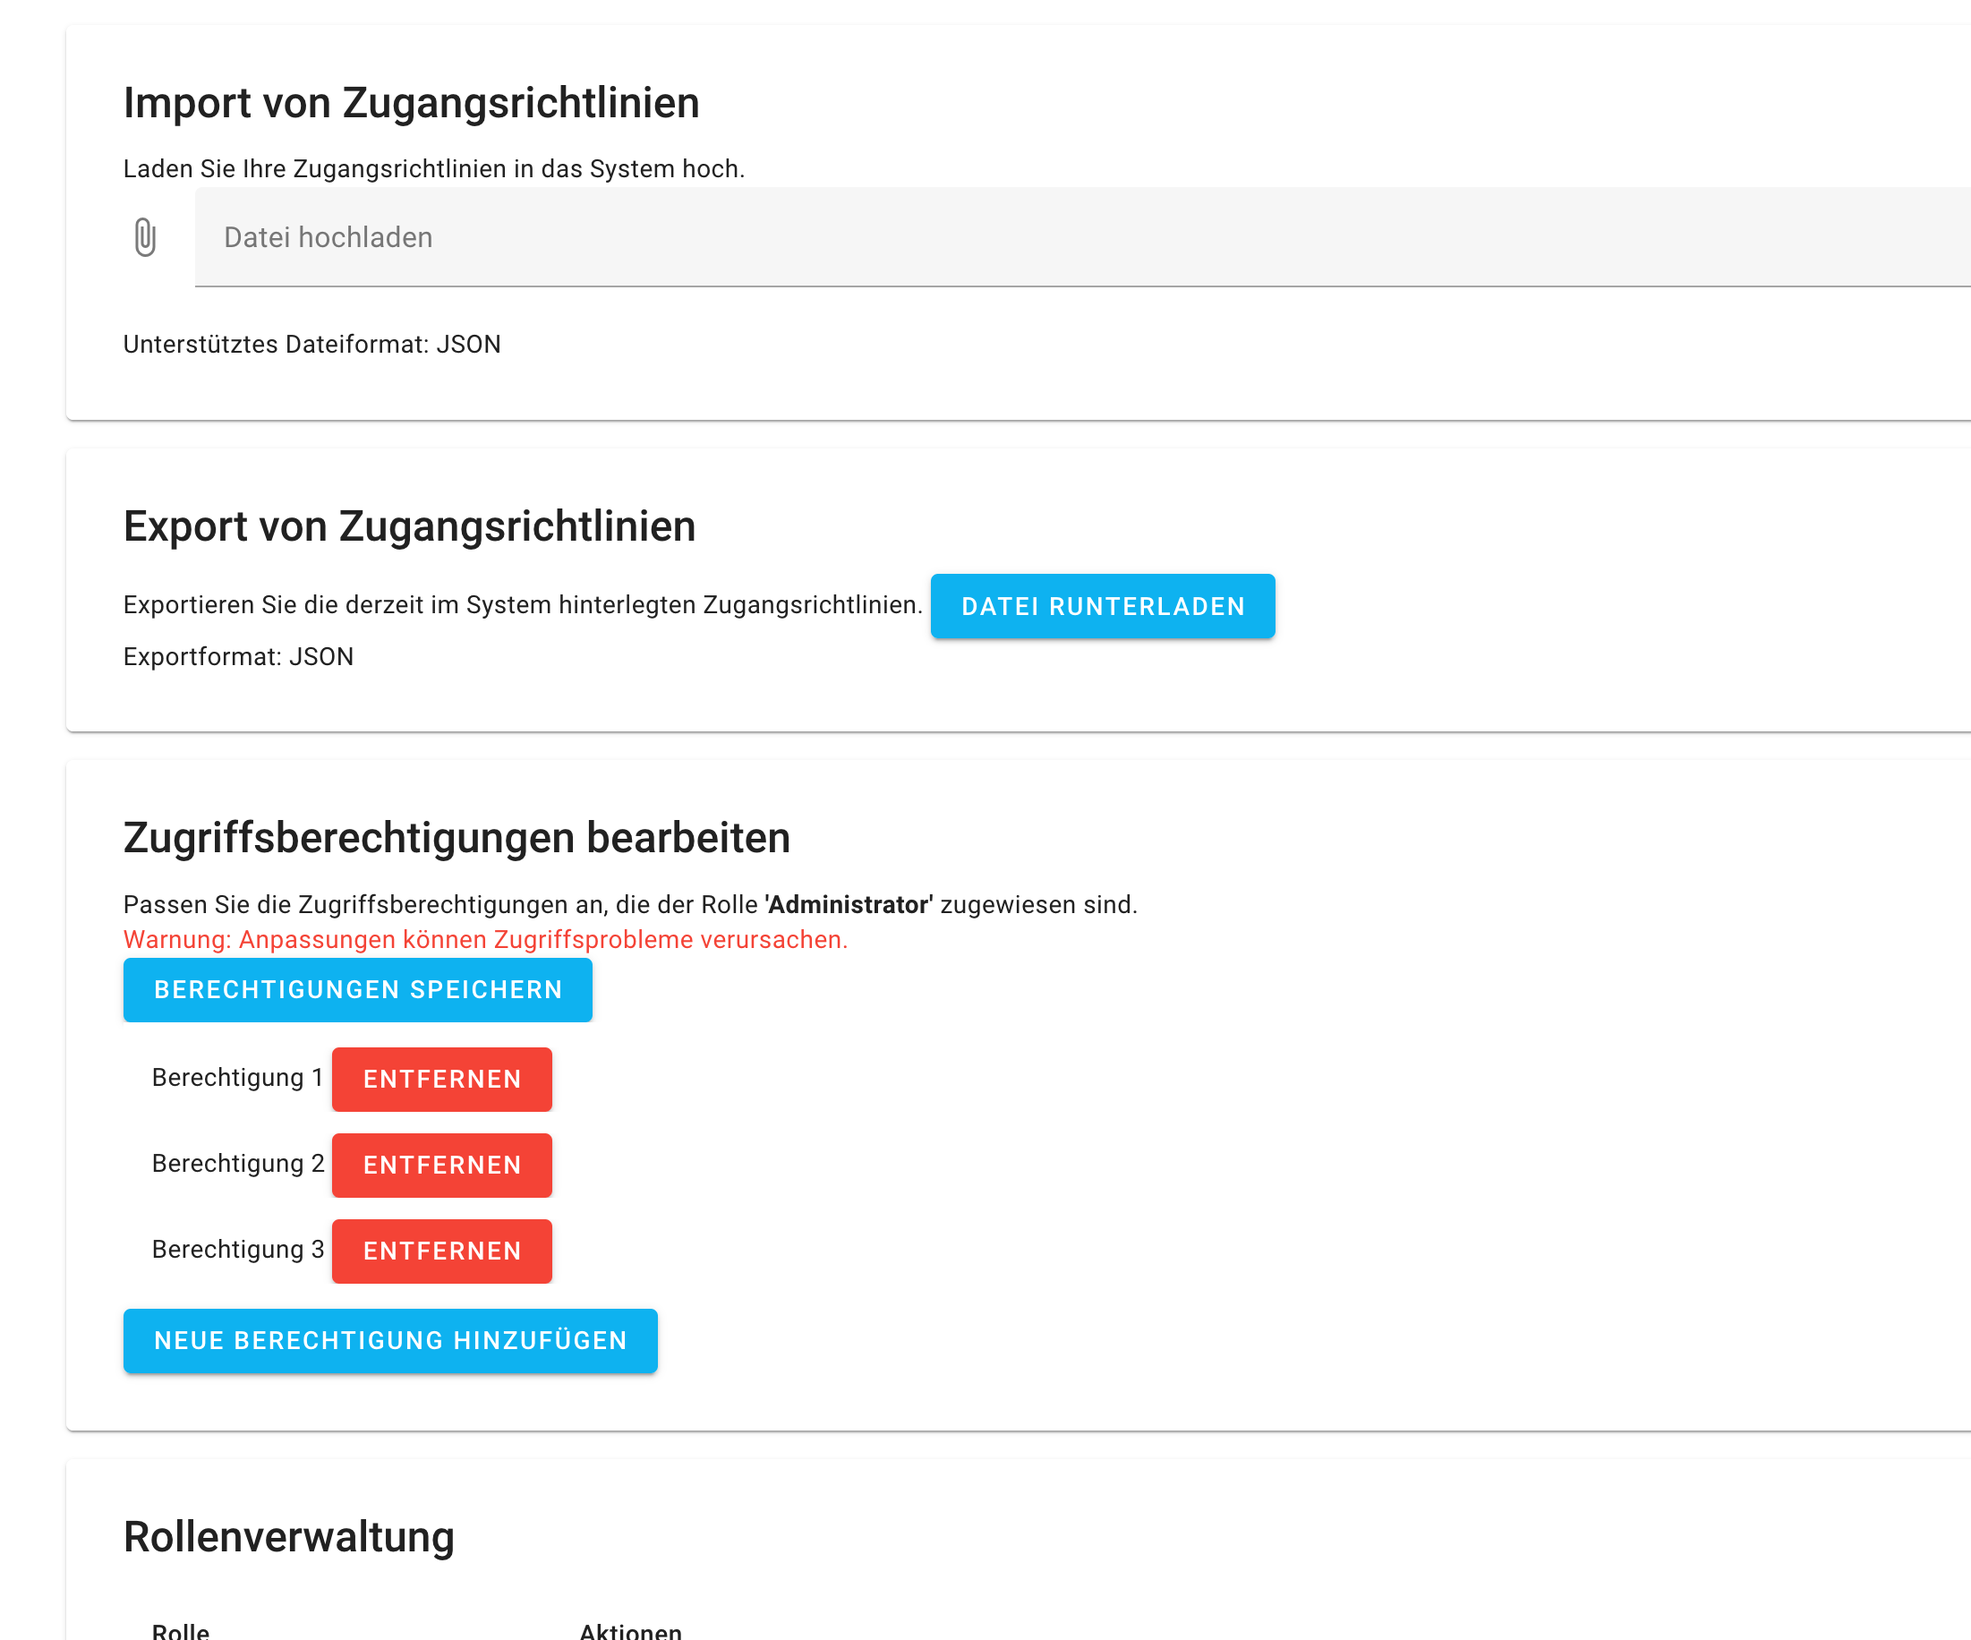
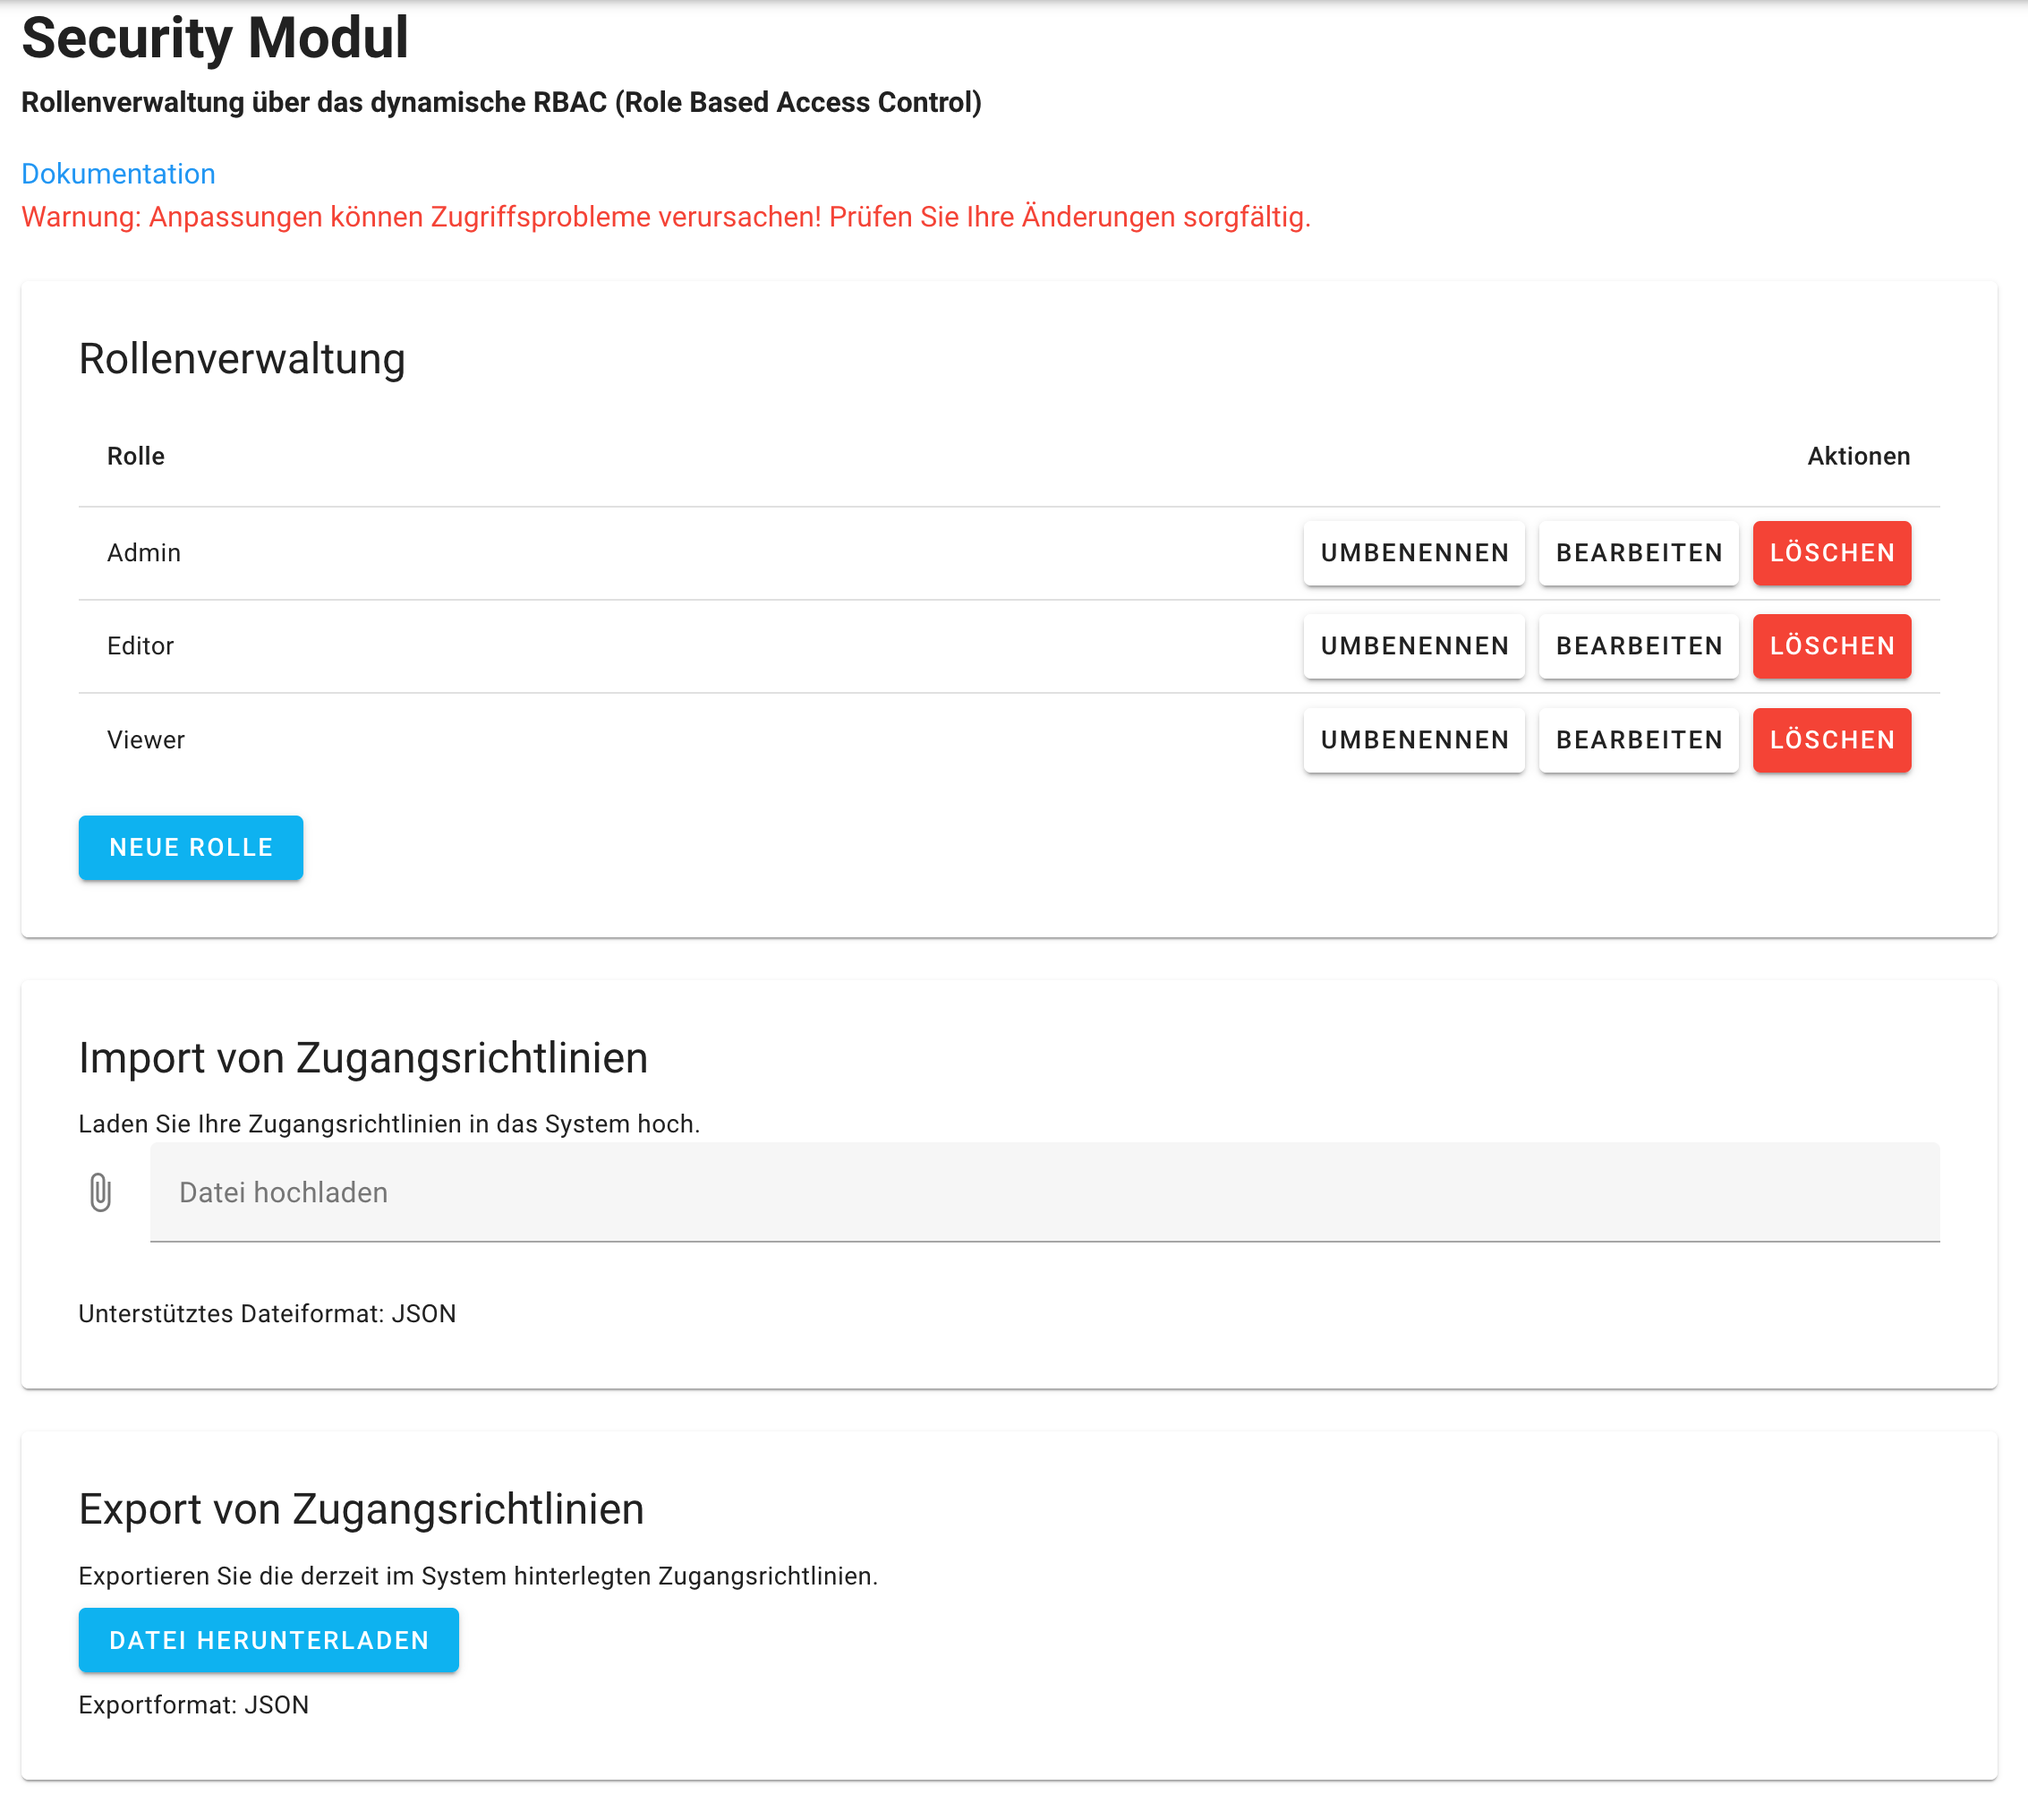
GITBOOK-57: No subject

diff --git a/technisches/sicherheitsmodul-security.vue.md b/technisches/sicherheitsmodul-security.vue.md
@@ -1,0 +1,38 @@
+---
+description: Dokumentation über das BaSyx-Modul 'Security'
+icon: lock-keyhole
+---
+
+# Sicherheitsmodul (Security.vue)
+
+Das Sicherheitsmodul dient zur Verwaltung von Rollen und Zugangsrichtlinien mithilfe von **Role-Based Access Control (RBAC)**. Es unterstützt die Erstellung, Bearbeitung und Löschung von Rollen sowie den Import und Export von Richtlinien und dokumentiert ausgeführte Aktionen.
+
+***
+
+### **Funktionen**
+
+#### **1. Rollenverwaltung**
+
+* **Rollen anzeigen**: Eine Tabelle listet bestehende Rollen übersichtlich auf
+* **Aktionen für Rollen**:
+  * **Neue Rolle erstellen**: Mit einem Klick wird eine Eingabeaufforderung geöffnet, in der der Name der neuen Rolle eingegeben wird
+  * **Rolle umbenennen**: Der Name einer bestehenden Rolle kann geändert werden
+  * **Rolle bearbeiten**: Bearbeitung vorhandener Rolleneinstellungen
+  * **Rolle löschen**: Entfernt die Rolle nach Bestätigung
+
+#### **2. Import von Zugangsrichtlinien**
+
+* Über eine **Datei-Upload**-Funktion können **JSON-Dateien** hochgeladen werden, die neue Zugangsrichtlinien enthalten
+
+#### **3. Export von Zugangsrichtlinien**
+
+* Exportieren der vorhandenen Richtlinien als **JSON-Datei** für Sicherungs- oder Analysezwecke
+
+### **Hinweise zur Nutzung**
+
+* **Rollenanpassungen**: Änderungen an Rollen können Zugriffsprobleme verursachen – bitte sorgfältig prüfen
+
+### Screenshot
+
+<figure><img src="../.gitbook/assets/image.png" alt=""><figcaption><p>Die UI des Security-Moduls</p></figcaption></figure>
+

diff --git a/organisation.md b/organisation.md
@@ -1,6 +1,6 @@
 ---
-icon: sitemap
 description: Dieses Kapitel befasst sich mit der Organisation und den benutzen Hilfsmittel.
+icon: sitemap
 ---
 
 # Organisation
@@ -9,7 +9,7 @@ description: Dieses Kapitel befasst sich mit der Organisation und den benutzen H
 
 Es wird ein Kanban-Board auf GitHub erstellt. Hierbei werden die Spalten "Todo", "In Progress" und "Done" benutzt. Auf diesem kann mit Hilfe von GitHub-Issues Aufgaben erstellen. Diese können Personen zugewiesen werden und es können nähere Details als Kommentar folgen. Des Weiteren kann eine Deadline hinzugefügt und es können Aufgaben auch dem gesamten Team zugewiesen werden.
 
-<figure><img src=".gitbook/assets/image (1).png" alt=""><figcaption><p>Das Kanban-Board bei Beginn des Projekts</p></figcaption></figure>
+<figure><img src=".gitbook/assets/image (1) (1).png" alt=""><figcaption><p>Das Kanban-Board bei Beginn des Projekts</p></figcaption></figure>
 
 <figure><img src=".gitbook/assets/Screenshot 2024-11-13 at 22-49-55 View 1 · ToDo Team 1.png" alt=""><figcaption><p>Kanban-Board gegen Ende des dritten Semesters</p></figcaption></figure>
 

diff --git a/home/informationen-zur-umsetzung.md b/home/informationen-zur-umsetzung.md
@@ -1,9 +1,9 @@
 ---
-icon: info
 description: >-
   Am 11.11.2024 wurde ein Meeting mit zwei Mitarbeitern des Fraunhofer Instituts
   gehalten. In diesem wurden Fragen geklärt und grundlegend etabliert, wie die
   Umsetzung des Plugins technisch erfolgt.
+icon: info
 ---
 
 # Informationen zur Umsetzung
@@ -29,7 +29,7 @@ description: >-
 * [Dokumentation für die API](http://localhost:8081/swagger-ui/index.html)
 * [RBAC Wiki](https://wiki.basyx.org/en/latest/content/user_documentation/basyx_components/v2/submodel_repository/features/authorization.html)
 
-<figure><img src="../.gitbook/assets/image (1) (1).png" alt=""><figcaption><p>Schema des RBAC in Basyx</p></figcaption></figure>
+<figure><img src="../.gitbook/assets/image (1) (1) (1).png" alt=""><figcaption><p>Schema des RBAC in Basyx</p></figcaption></figure>
 
 ### JSON configs in ein Submodel übersetzen
 

diff --git a/SUMMARY.md b/SUMMARY.md
@@ -18,9 +18,10 @@
 
 ## Entwicklung
 
-* [WebUI für die Entwicklung aufsetzen](entwicklung/webui-fur-die-entwicklung-aufsetzen.md)
+* [WebUI für die Entwicklung aufsetzen](entwicklung/webui-fur-die-entwicklung-aufsetzen-yarn.md)
 * [WebUI und Keycloak für die Entwicklung aufsetzen (Docker)](entwicklung/webui-und-keycloak-fur-die-entwicklung-aufsetzen-docker.md)
 
 ## Technisches
 
 * [Frontend des Plugins](technisches/frontend-des-plugins.md)
+* [Sicherheitsmodul (Security.vue)](technisches/sicherheitsmodul-security.vue.md)

diff --git a/technisches/frontend-des-plugins.md b/technisches/frontend-des-plugins.md
@@ -24,4 +24,4 @@ Administratoren können die Zugriffsberechtigungen für die Rolle "Administrator
 
 Administratoren können Rollen im System verwalten, einschließlich dem Hinzufügen, Umbenennen, Bearbeiten und Löschen von Rollen.
 
-<figure><img src="../.gitbook/assets/image.png" alt=""><figcaption><p>UI unseres Plugins</p></figcaption></figure>
+<figure><img src="../.gitbook/assets/image (1).png" alt=""><figcaption><p>UI unseres Plugins</p></figcaption></figure>

diff --git a/entwicklung/webui-fur-die-entwicklung-aufsetzen-yarn.md b/entwicklung/webui-fur-die-entwicklung-aufsetzen-yarn.md
@@ -18,7 +18,7 @@ layout:
     visible: true
 ---
 
-# WebUI für die Entwicklung aufsetzen (Yarn)
+# WebUI für die Entwicklung aufsetzen
 
 ## Installation
 
